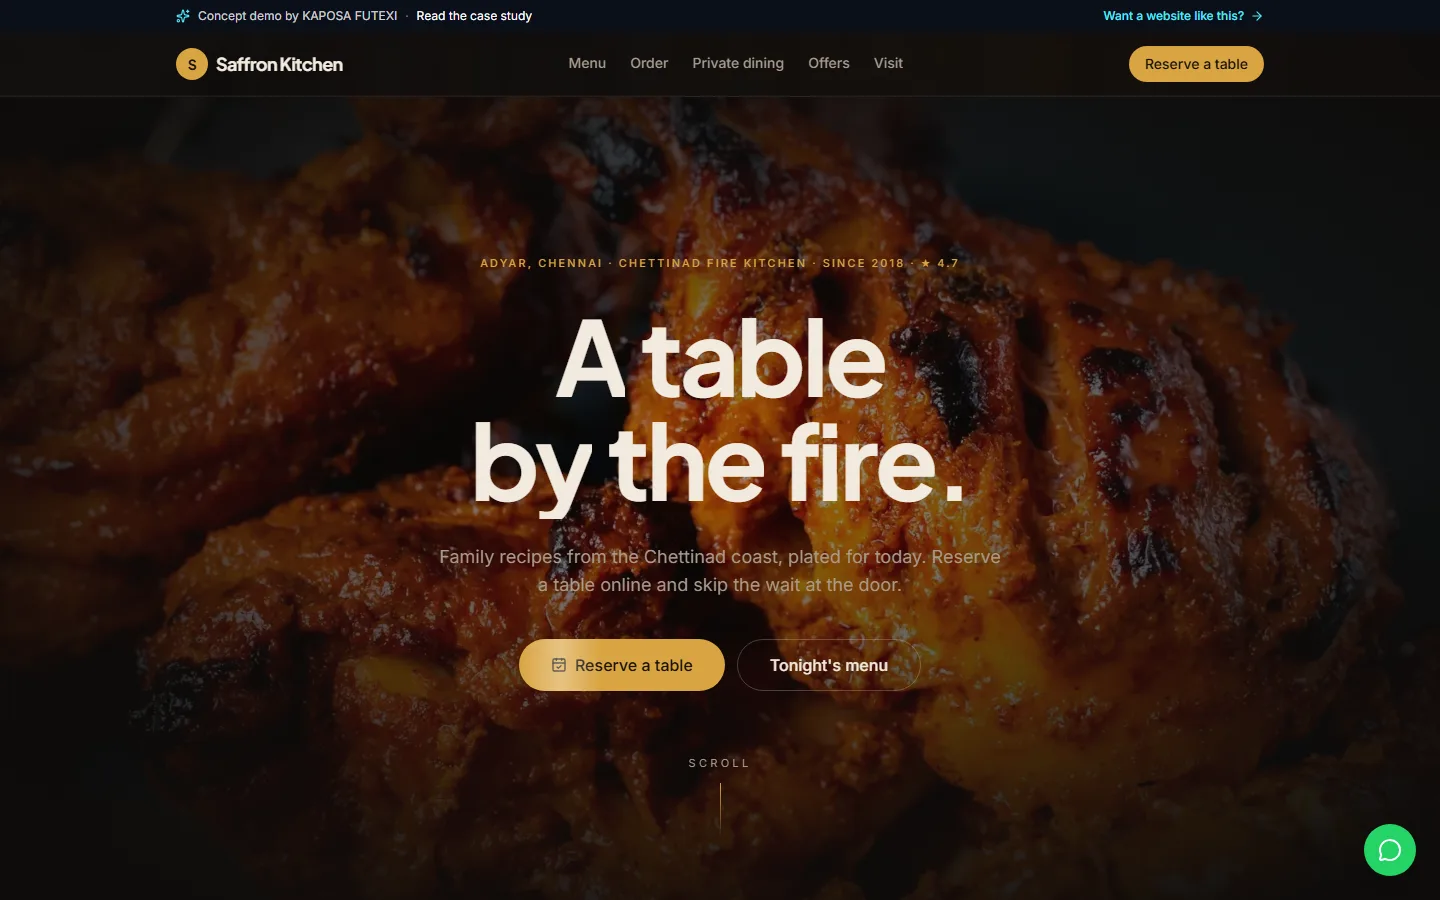
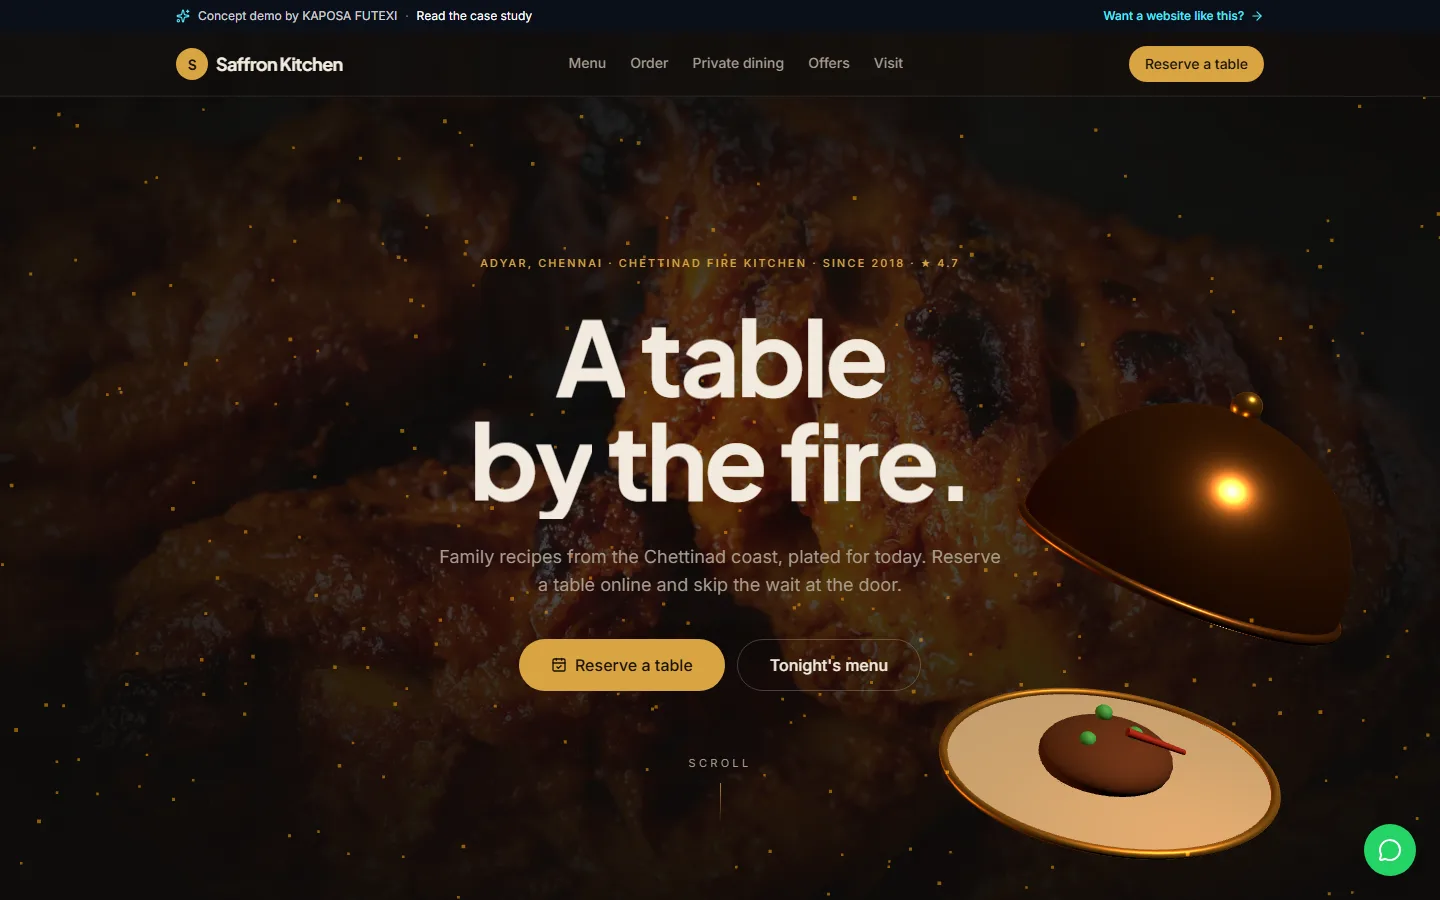
Case-study screenshots show the 3D hero scenes
The capture script opened every page with prefers-reduced-motion: reduce, so
Motion v2 and the Three.js hero scene never ran on the desktop shots and the
previews missed what a desktop visitor sees. Desktop captures now keep motion
on and wait for the scene to report ready (plus its fade) before the shot;
phones and tablets stay on the calm CSS layer. All six demos recaptured from
the production build; screensVersion bumped so browsers fetch the new files.

diff --git a/src/content/demos.ts b/src/content/demos.ts
@@ -57,7 +57,7 @@ export const demos: readonly Demo[] = [
     contactType: 'booking',
     status: 'live',
     liveHref: '/demo/booking',
-    screensVersion: 7,
+    screensVersion: 8,
     screens: {
       desktop: [
         {
@@ -120,7 +120,7 @@ export const demos: readonly Demo[] = [
     contactType: 'website',
     status: 'live',
     liveHref: '/demo/salon',
-    screensVersion: 8,
+    screensVersion: 9,
     screens: {
       desktop: [
         {
@@ -175,7 +175,7 @@ export const demos: readonly Demo[] = [
     contactType: 'website',
     status: 'live',
     liveHref: '/demo/restaurant',
-    screensVersion: 7,
+    screensVersion: 8,
     screens: {
       desktop: [
         {
@@ -231,7 +231,7 @@ export const demos: readonly Demo[] = [
     contactType: 'website',
     status: 'live',
     liveHref: '/demo/interior',
-    screensVersion: 3,
+    screensVersion: 4,
     screens: {
       desktop: [
         {
@@ -293,7 +293,7 @@ export const demos: readonly Demo[] = [
     contactType: 'website',
     status: 'live',
     liveHref: '/demo/tuition',
-    screensVersion: 7,
+    screensVersion: 8,
     screens: {
       desktop: [
         { src: '/demos/tuition/desktop-home.webp', alt: 'Vidya Academy home with results strip' },
@@ -365,7 +365,7 @@ export const demos: readonly Demo[] = [
     contactType: 'ai',
     status: 'live',
     liveHref: '/demo/ai-business',
-    screensVersion: 6,
+    screensVersion: 7,
     screens: {
       desktop: [
         { src: '/demos/ai-business/desktop-home.webp', alt: 'Pulse Fitness home with the AI assistant' },
